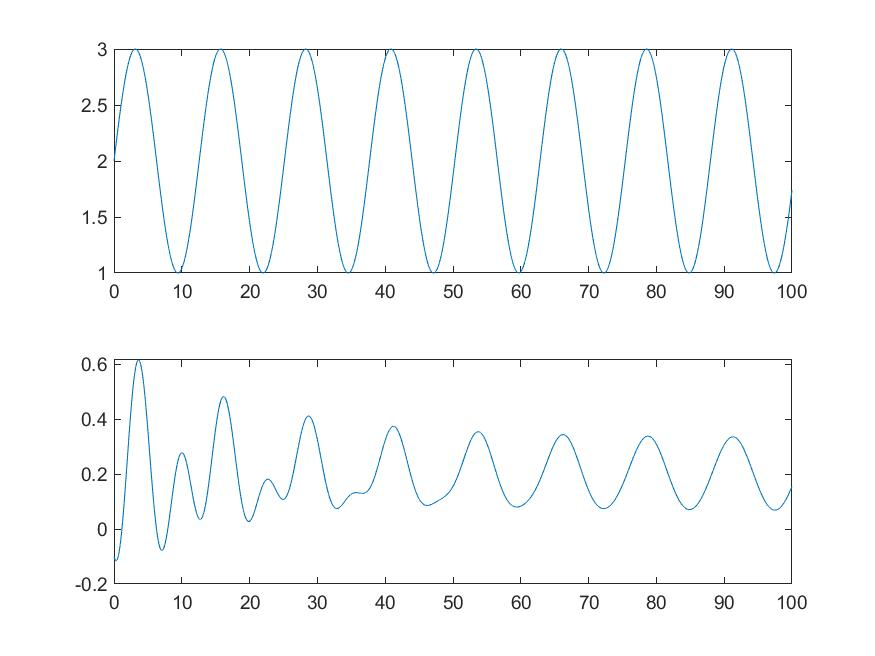
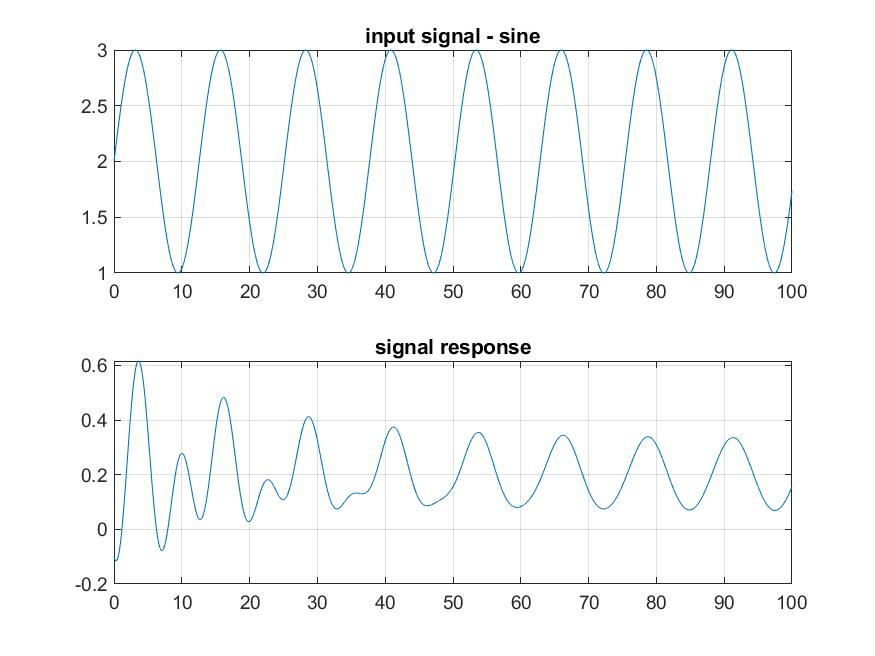
2nd project added - PIDController_eg1.m

diff --git a/solutions_matlabScripts-n-SimulinkModels/PIDController_eg1.m b/solutions_matlabScripts-n-SimulinkModels/PIDController_eg1.m
@@ -1,0 +1,91 @@
+% *************************************************************************
+% By        : Jabed-Akhtar (github)
+% date      : 01.04.2022
+% *************************************************************************
+% file      : PIDController_eg1.m
+% brief     :
+% *************************************************************************
+% script (this) related infos:
+%   - a source used within this script: https://youtu.be/lfMMPe7s9nU
+%   - evicences/pics can be found at location: '../docs_images__/PIDController_eg1_***.png'
+% *************************************************************************
+% Descriptions:
+%   - ---
+% *************************************************************************
+
+clc; clear; close all;
+
+%% Variables --------------------------------------------------------------
+H = [1]; % feedback
+
+%% Transfer function of Plant ---------------------------------------------
+num = [1];
+den = [1 3 1];
+
+Gp = tf(num, den) % transfer-function of plant
+
+%% Closed-loop tf with No controller  -------------------------------------
+M_noController = feedback(Gp, H)
+
+%% Defining PID Controller ----------------------------------
+Kp = 1;
+Ki = 0;
+Kd = 0;
+
+Gc = pid(Kp, Ki, Kd);
+
+%% Closed-loop tf with Controller  ----------------------------------------
+M_withController = feedback(Gc*Gp, H)
+
+%% Step response ----------------------------------------------------------
+figure(1)
+step(M_noController)
+hold on; grid;
+step(M_withController, 'xr')
+legend('step-response with no Controller', 'step-response with PID Controller - P1I0D1','Location','southeast')
+
+%% Plotting Step responses with varoius PID variables ---------------------
+Kp = [1 5 10 20 24];
+Ki = [0 0 0 1 1];
+Kd = [0 2 6 7 8];
+figure(2)
+title('step-response with PID Controller')
+hold on; grid;
+for n=1:5
+    Gc = pid(Kp(n), Ki(n), Kd(n));
+    M_withController = feedback(Gc*Gp, H);
+    step(M_withController)
+    legend('P1I0D1', 'P5I0D2', 'P10I0D6', 'P20I1D7', 'P24I1D8', 'Location', 'southeast')
+end
+
+%% Step response ----------------------------------------------------------
+figure(3)
+impulse(M_noController)
+hold on; grid;
+xlim([0 6])
+impulse(M_withController)
+legend('impulse-response with no Controller', 'impulse-response with PID Controller - P1I0D1','Location','northeast')
+
+%% Plotting Step responses with varoius PID variables ---------------------
+Kp = [1 5 10 20 24];
+Ki = [0 0 0 1 1];
+Kd = [0 2 6 7 8];
+figure(4)
+title('impulse-response with PID Controller')
+hold on; grid;
+xlim([0 6])
+for n=1:5
+    Gc = pid(Kp(n), Ki(n), Kd(n));
+    M_withController = feedback(Gc*Gp, H);
+    impulse(M_withController)
+    legend('P1I0D1', 'P5I0D2', 'P10I0D6', 'P20I1D7', 'P24I1D8', 'Location', 'northeast')
+end
+
+%% Saving all figures -----
+saveas(figure(1), 'PIDController_eg1_step_withoutNWithController.png')
+saveas(figure(2), 'PIDController_eg1_step_withVariousPIDVariables.png')
+saveas(figure(3), 'PIDController_eg1_impulse_withoutNWithController.png')
+saveas(figure(4), 'PIDController_eg1_impulse_withVariousPIDVariables.png')
+
+
+% *************************** END OF FILE *********************************

diff --git a/solutions_matlabScripts-n-SimulinkModels/MSDSystem_eg1.m b/solutions_matlabScripts-n-SimulinkModels/MSDSystem_eg1.m
@@ -42,25 +42,32 @@ sysSS = ss(A, B, C, D);
 [step2, timeStep2] = step(sysSS)
 % plotting step response
 figure(1)
+subplot(2,1,1)
 plot(timeStep1, step1) % is same as step(W)
-figure(2)
+title('step1 - tf'); grid
+subplot(2,1,2)
 plot(timeStep2, step2) % is same as step(sysSS)
+title('step2 - state-space'); grid
 
 %% Impulse response -------------------------------------------------------
 [impulse1, timeImpulse1] = impulse(W)
 [impulse2, timeImpulse2] = impulse(sysSS)
 % plotting step response
-figure(3)
+figure(2)
+subplot(2,1,1)
 plot(timeImpulse1, impulse1) % is same as impulse(W)
-figure(4)
+title('impulse1 - tf'); grid
+subplot(2,1,2)
 plot(timeImpulse2, impulse2) % is same as impulse(sysSS)
+title('impulse2 - state-space'); grid
 
 %% Initial condition response ---------------------------------------------
 X0 = [5;5];
 [initial1, timeInitial1] = initial(sysSS, X0)
 % plotting
-figure(5)
+figure(3)
 plot(timeInitial1, initial1)
+title('response with initial condition [5;5]'); grid
 
 %% Response to an arbitrary signal and initial condition ------------------
 X0_lsim = [-0.1,-0.1];
@@ -68,19 +75,19 @@ timeSignal = 0:0.01:100;
 signal = sin(0.5*(timeSignal)) + 2*ones(size(timeSignal));
 [signalResponse, timeSignalResponse] = lsim(sysSS, signal, timeSignal, X0_lsim);
 % plotting
-figure(6)
+figure(4)
 subplot(2,1,1)
 plot(timeSignal, signal)
+title('input signal - sine'); grid
 subplot(2,1,2)
 plot(timeSignalResponse, signalResponse)
+title('signal response'); grid
 
 %% Saving all figures -----
-saveas(figure(1), 'MSDSystem_eg1_step1.jpg')
-saveas(figure(2), 'MSDSystem_eg1_step2.jpg')
-saveas(figure(3), 'MSDSystem_eg1_impulse1.jpg')
-saveas(figure(4), 'MSDSystem_eg1_impulse2.jpg')
-saveas(figure(5), 'MSDSystem_eg1_initialConditionResponse.jpg')
-saveas(figure(6), 'MSDSystem_eg1_ResponseToSineSignal.jpg')
+saveas(figure(1), 'MSDSystem_eg1_step.jpg')
+saveas(figure(2), 'MSDSystem_eg1_impulse.jpg')
+saveas(figure(3), 'MSDSystem_eg1_initialConditionResponse.jpg')
+saveas(figure(4), 'MSDSystem_eg1_ResponseToSineSignal.jpg')
 
 
 % *************************** END OF FILE *********************************
